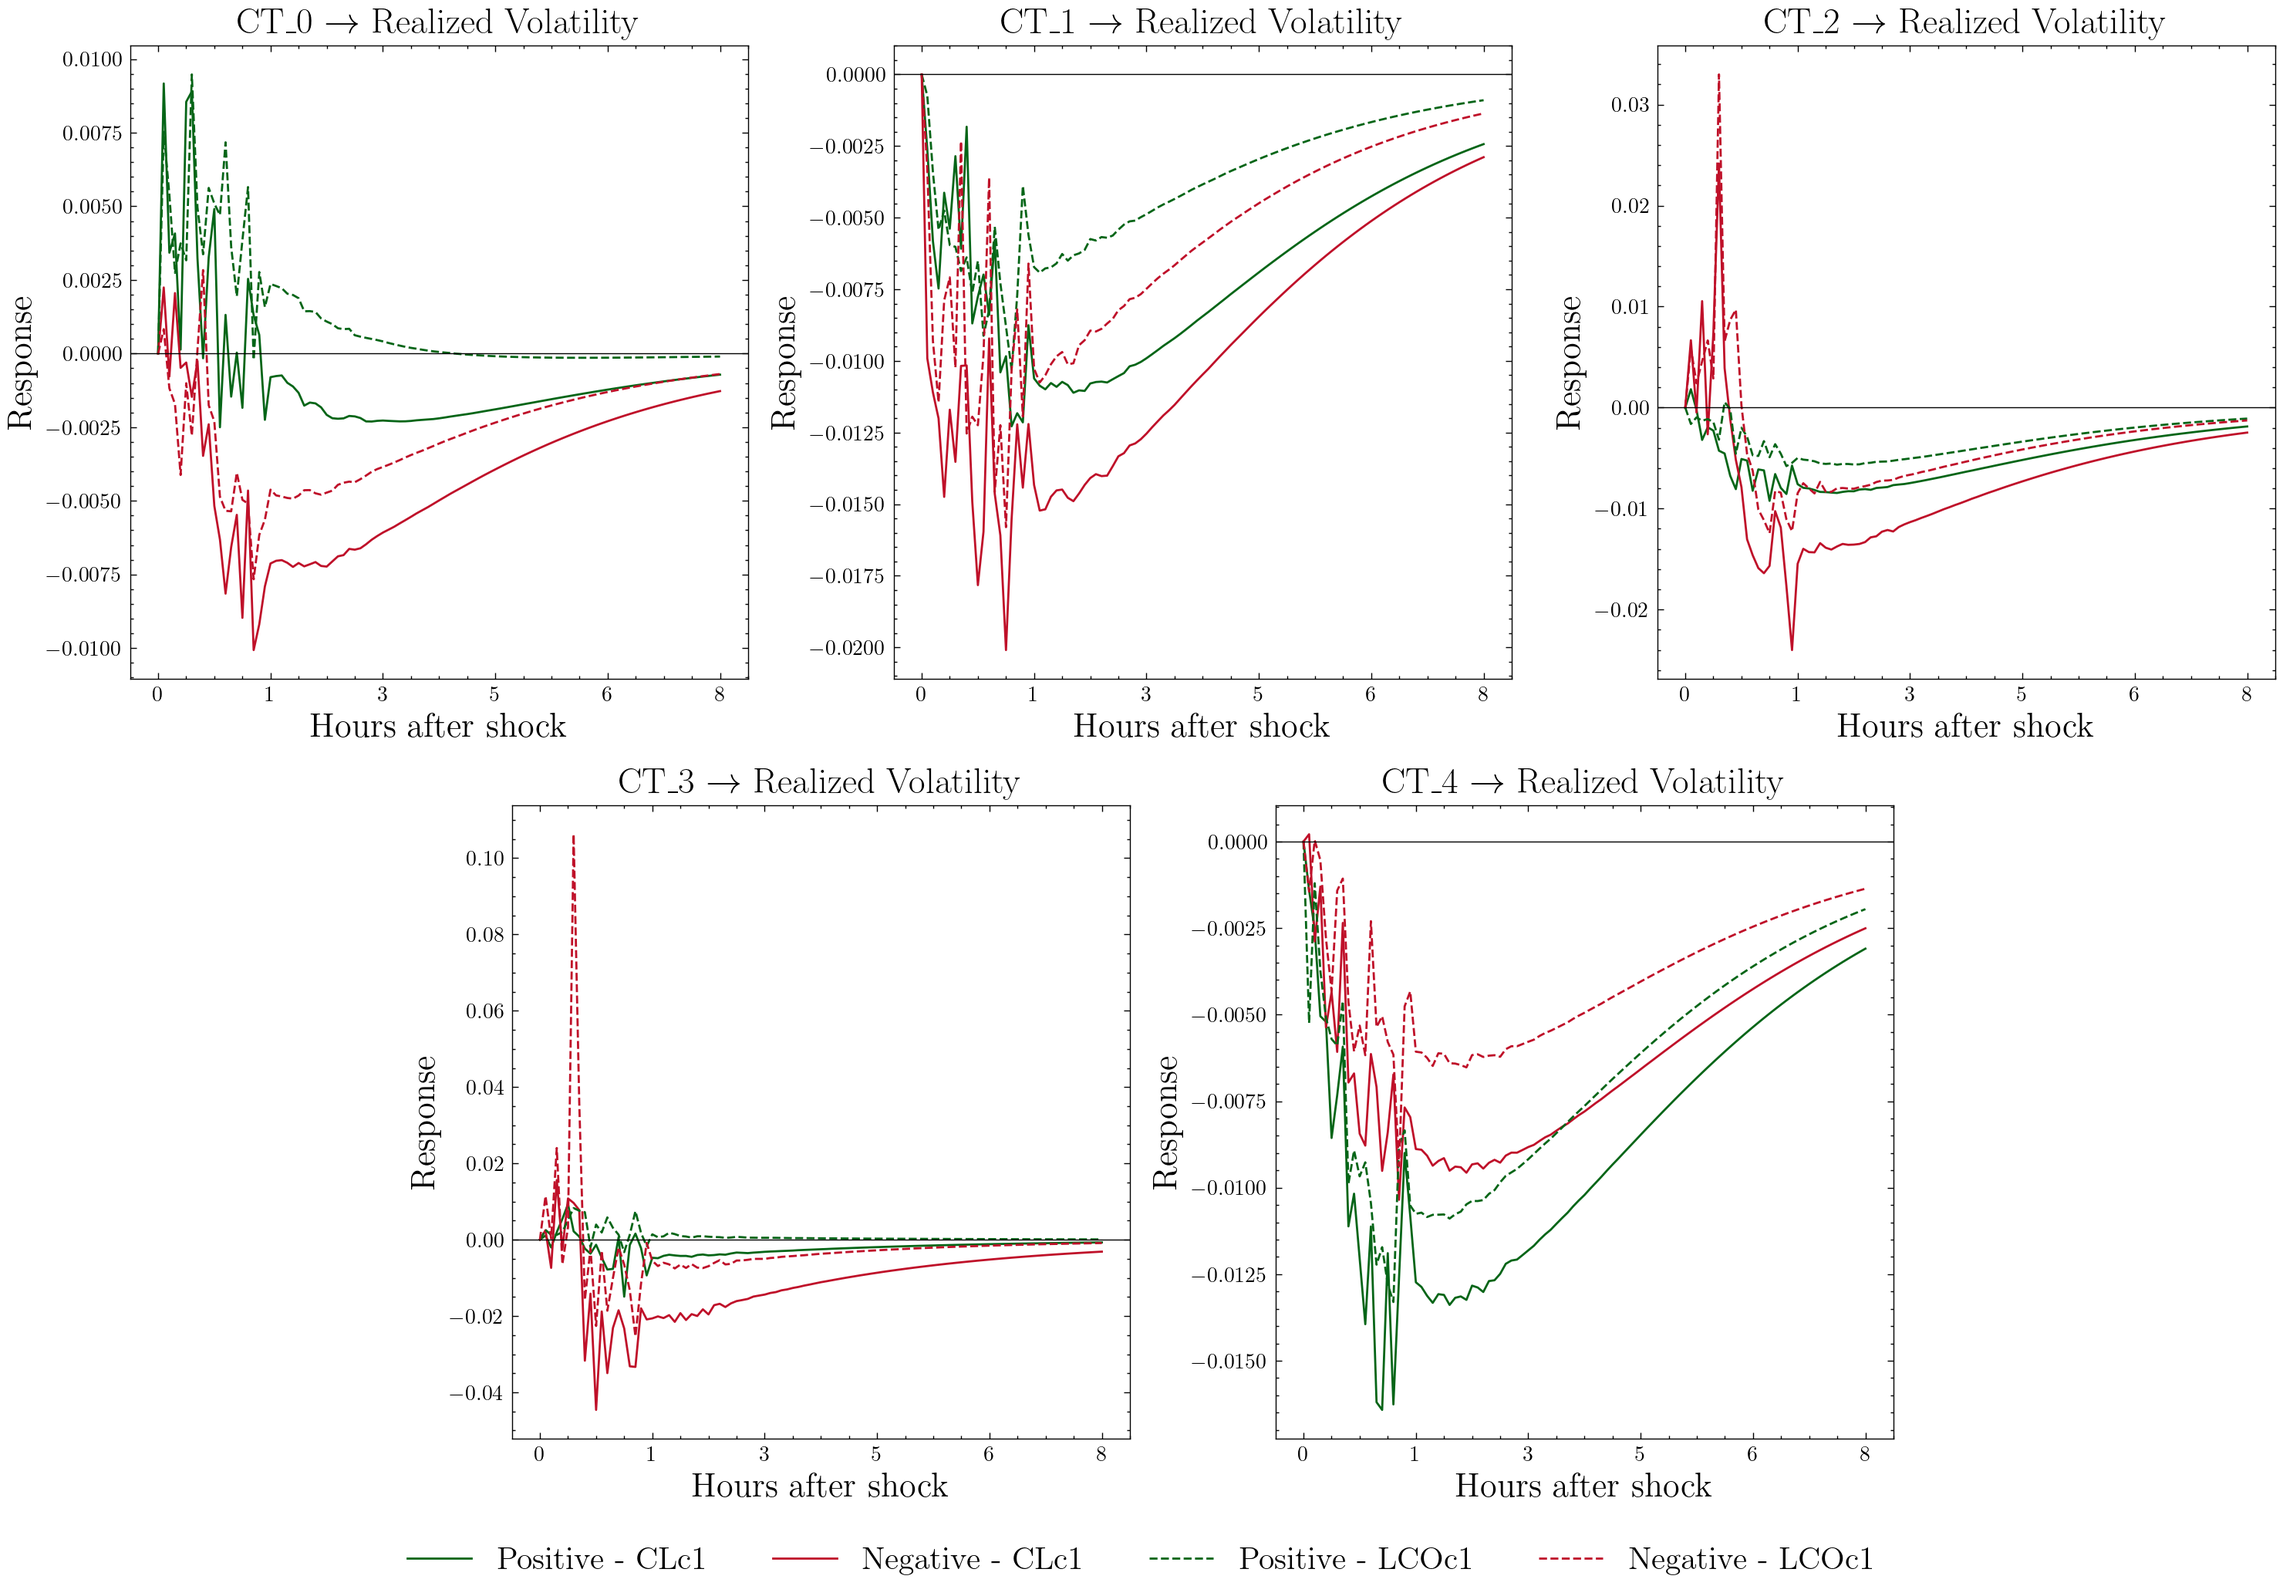
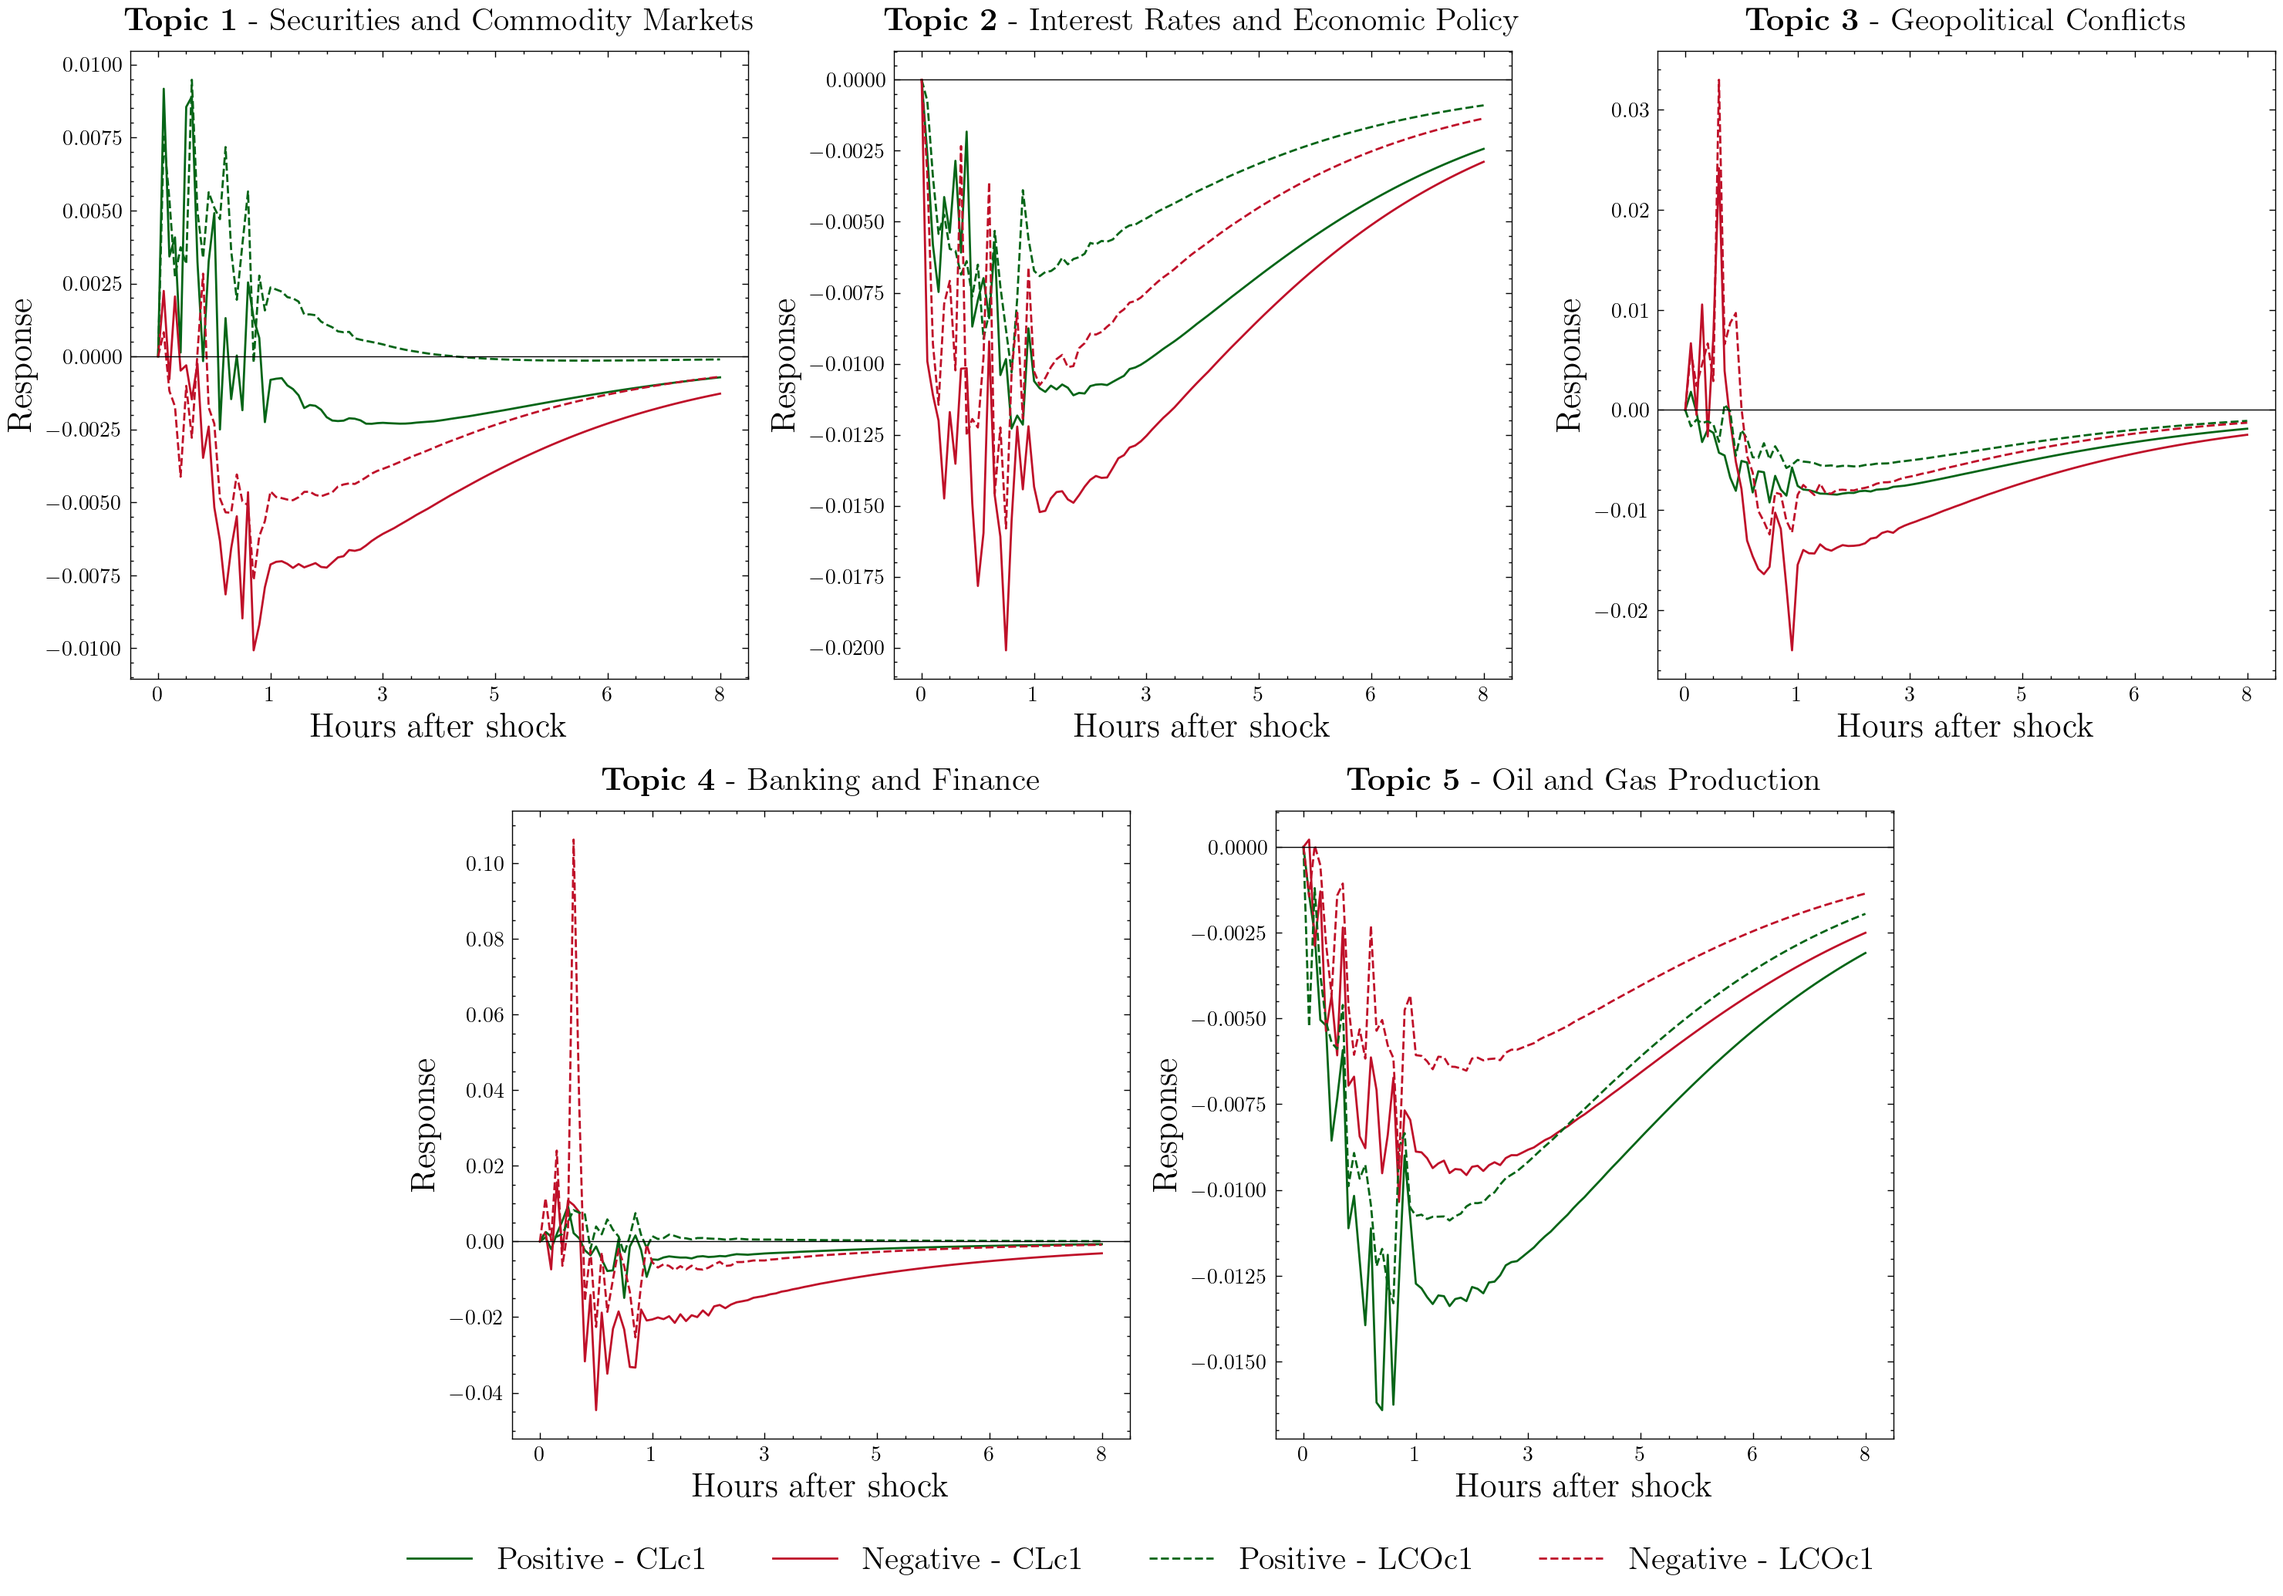
update labelling

diff --git a/src/utils/model_utils.py b/src/utils/model_utils.py
@@ -162,7 +162,7 @@ def train_RNN(
         model_params: dict[str, any],
         rnn_type: str,
         max_epochs: int
-    ) -> tuple[Sequential, RNNGenerator]:
+    ) -> tuple[Sequential, RNNGenerator, dict[str, any]]:
 
     # Configure early stopping
     early_stopping = EarlyStopping(
@@ -194,7 +194,7 @@ def train_RNN(
         (data_params['window_size'], len(data_params['feature_columns']))
     )
 
-    _, ax = plt.subplots(figsize=(7, 5), dpi=200)
+    fig, ax = plt.subplots(figsize=(7, 5), dpi=200)
 
     history_list = list()
 
@@ -216,9 +216,15 @@ def train_RNN(
             callbacks=[early_stopping],
             verbose=1
         )
+
+        loss_dict = {
+            'train_loss': history.history['loss'],
+            'val_loss': history.history['val_loss']
+        }
+
         history_list.append(history)
-        ax.plot(history.history['loss'], label=f'Train Loss k={i + 1}')
-        ax.plot(history.history['val_loss'], linestyle=':', label=f'Val Loss k={i + 1}')
+        ax.plot(loss_dict['train_loss'], label=f'Train Loss k={i + 1}')
+        ax.plot(loss_dict['val_loss'], linestyle=':', label=f'Val Loss k={i + 1}')
 
     ax.set_yscale('log')
     ax.set_title('Model Training and Validation Loss')
@@ -226,7 +232,7 @@ def train_RNN(
     ax.set_ylabel('Loss MSE')
     ax.legend(frameon=False)
 
-    return model, gen
+    return model, gen, loss_dict
 
 
 def optimize_hyperparameters(
@@ -410,7 +416,8 @@ def save_model_info(
         model: Sequential,
         model_name: str,
         model_params: dict[str, any],
-        data_params: dict[str, any]
+        data_params: dict[str, any],
+        loss_dict: dict[str, any]
     ) -> None:
 
     if not os.path.exists(f'model_archive/{model_name}'):
@@ -427,6 +434,11 @@ def save_model_info(
             f'model_archive/{model_name}/data_params.json', 'w'
             ) as file:
             json.dump(data_params, file, indent=4)
+
+        with open(
+            f'model_archive/{model_name}/loss_data.json', 'w'
+            ) as file:
+            json.dump(loss_dict, file, indent=4)
 
         print(f'Model saved as {model_name}')
     else:

diff --git a/src/utils/topic_utils.py b/src/utils/topic_utils.py
@@ -52,6 +52,19 @@ class LDAModelSetup:
 
         self.corpus = [self.dictionary.doc2bow(doc) for doc in self.doc_list]
 
+    def print_top_words(
+            self,
+            n_words: int = 10
+        ) -> None:
+
+        for i, topic in self.model.show_topics(
+                num_topics=-1,
+                num_words=n_words,
+                formatted=False
+            ):
+            print(f'Topic {i}: {[word[0] for word in topic]}')
+
+
     def generate_model(self) -> None:
         self.model = LdaMulticore(
             corpus=self.corpus,
@@ -65,7 +78,8 @@ class LDAModelSetup:
         self.visfig = pyLDAvis.gensim.prepare(
             topic_model = self.model,
             corpus = self.corpus,
-            dictionary = self.dictionary
+            dictionary = self.dictionary,
+            sort_topics=False
         )
 
     def plot_pyLDAvis(self, ax: Axes) -> None:
@@ -121,7 +135,7 @@ class LDAModelSetup:
                 )
             # add fraction of articles in the topic
             ax.text(row['x'], row['y'] - 0.03,
-                    f"{row['Freq']:.1f}%", fontsize=10,
+                    f"{row['Freq']:.0f}%", fontsize=10,
                     ha='center', va='center',
                     color='white'
                 )

diff --git a/src/utils/var_utils.py b/src/utils/var_utils.py
@@ -40,15 +40,19 @@ def grangers_causation_matrix(
         maxlag: int=12
     ) -> pd.DataFrame:
 
-    df = pd.DataFrame(np.zeros((len(variables), len(variables))), columns=variables, index=variables)
-    for c in tqdm(df.columns):
+    df = pd.DataFrame(
+        np.zeros((len(variables), len(variables))),
+        columns=variables,
+        index=variables
+    )
+    for c in tqdm(df.columns, desc='Granger Causality Matrix'):
         for r in df.index:
             test_result = grangercausalitytests(
                 data[[r, c]],
                 maxlag=maxlag,
                 verbose=False
             )
-            p_values = [round(test_result[i+1][0][test][1],4) for i in range(maxlag)]
+            p_values = [round(test_result[i+1][0][test][1], 4) for i in range(maxlag)]
             if verbose: print(f'Y = {r}, X = {c}, P Values = {p_values}')
             min_p_value = np.min(p_values)
             df.loc[r, c] = min_p_value
